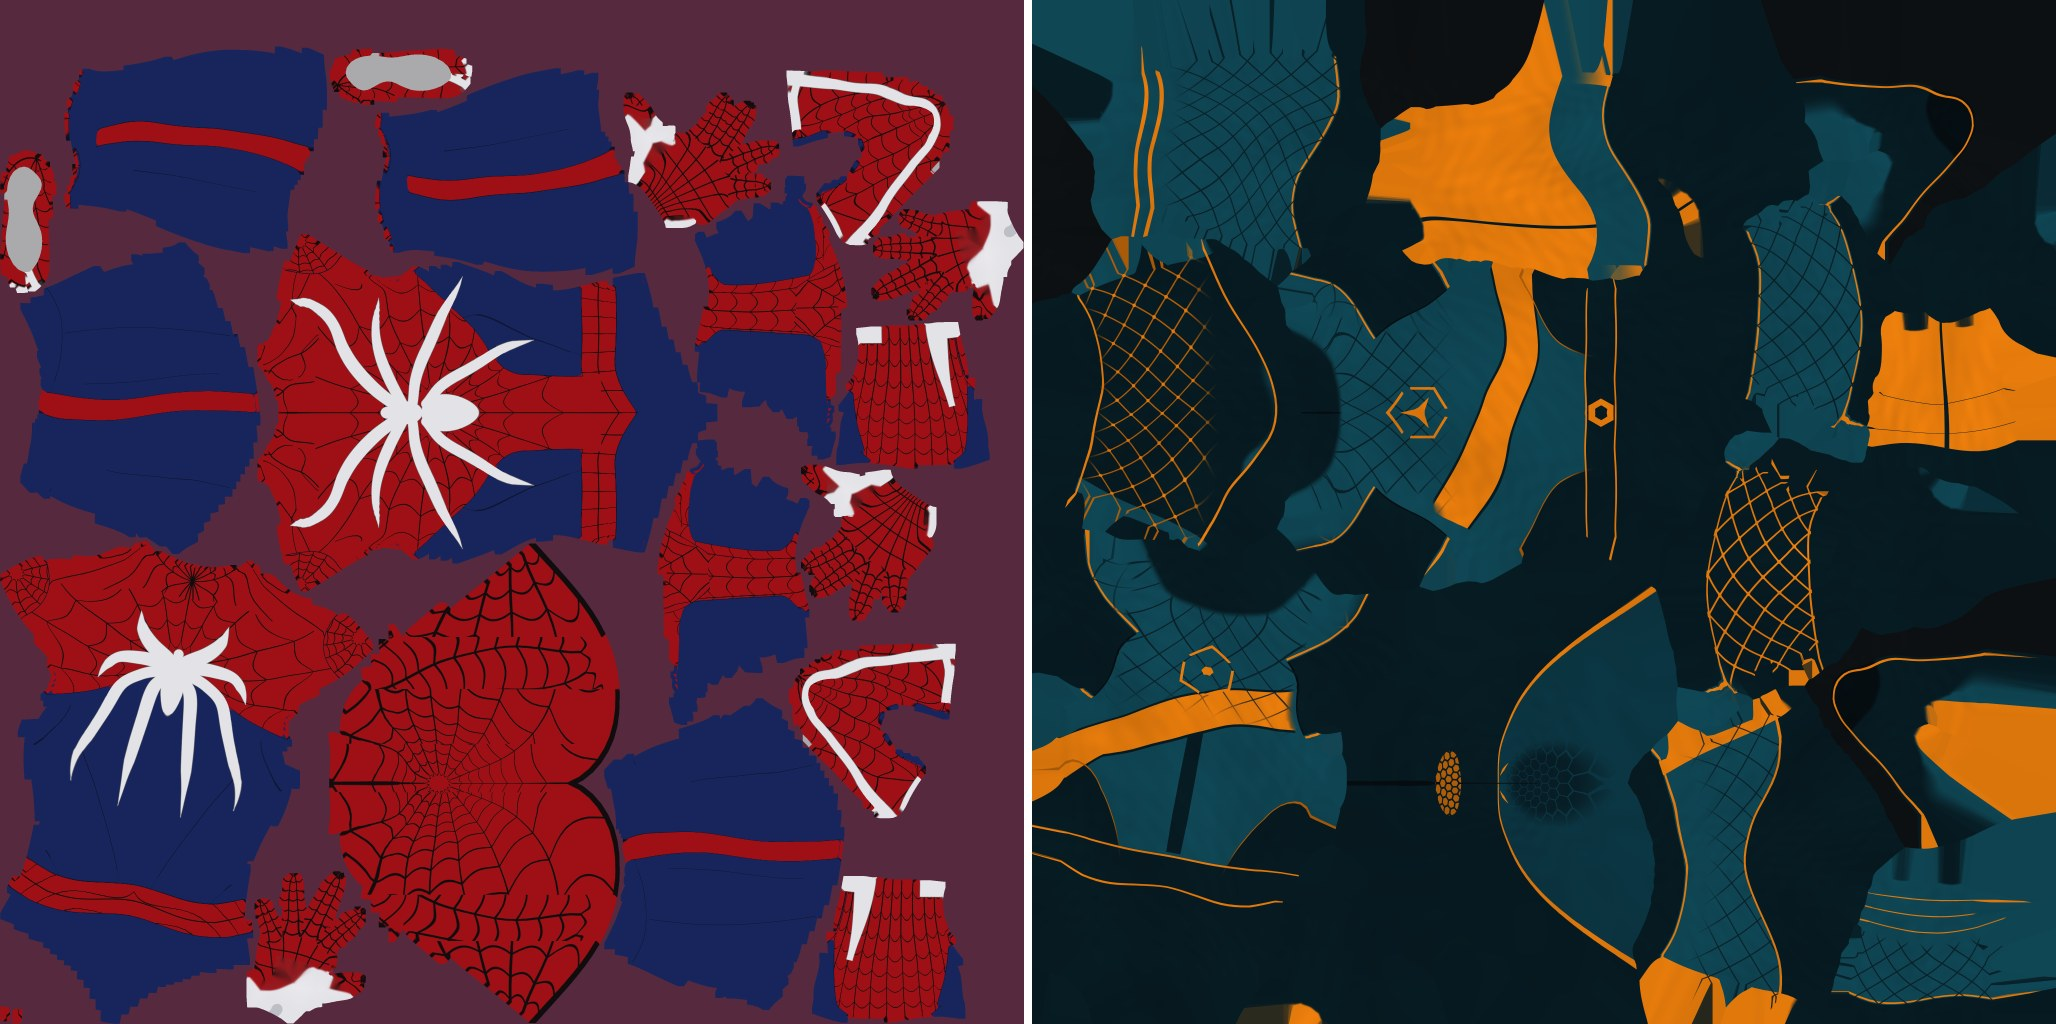
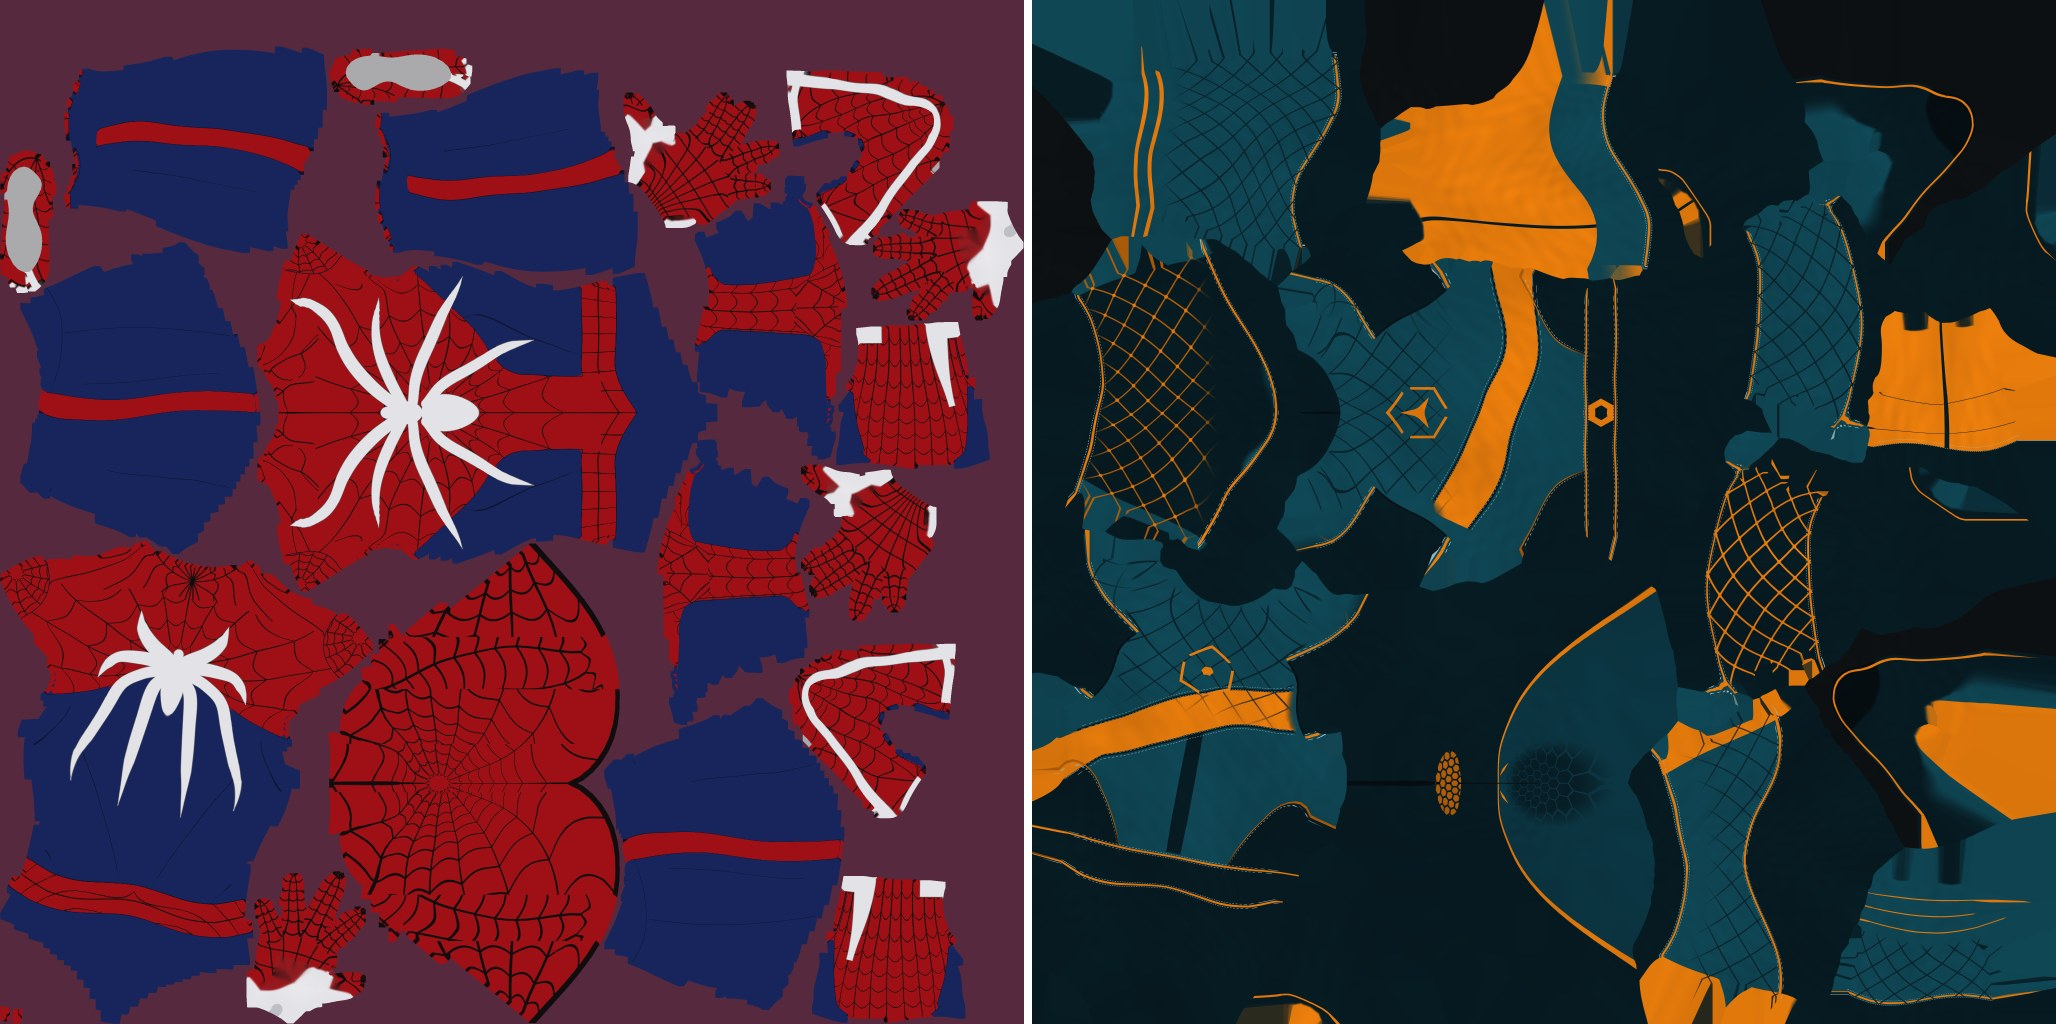
P2 characters r08 WIP: hero captures in progress, palette-aware hero video checks, line quality + lens check (flat mode), crowd frame tools

diff --git a/tools/ue_char/eval/lens_check_r8.py b/tools/ue_char/eval/lens_check_r8.py
@@ -2,7 +2,10 @@
 """Round 08: eye checks on the hero key stills (Char_HeroKey: the hero writes custom-depth stencil, the post-process key paints every non-hero pixel one flat colour,
 bloom / vignette off; needs r.CustomDepth 3).  The hero keeps its real materials, so the eye classes are read from colour inside an eye ROI:
 
-  python3 tools/ue_char/eval/lens_check_r8.py hero_key_face_4k.png --out DIR --eye NAME x0 y0 x1 y1 [--eye NAME2 ...]
+  python3 tools/ue_char/eval/lens_check_r8.py hero_key_face_4k.png --out DIR [--flat] --eye NAME x0 y0 x1 y1 [--eye NAME2 ...]
+
+--flat: the still was rendered with -WHFlatClasses (tools/ue_char/capture_r5.sh gHK): every slot of the hero is an unlit class colour (lens magenta, bezel yellow, suit blue), so the classes are exact
+(nearest channel pattern) and the bezel / hood question below is answered without colour heuristics.  Without --flat the classes are read from the real colours (amber lens, neutral bezel).
 
 Per eye ROI (native pixels; must contain the whole eye, bezel included, and nothing else amber):
   exterior key      pixels equal to the key colour (the modal colour of the image corners) that are connected to the image border
@@ -42,11 +45,36 @@ R_, G_, B_ = rgb[..., 0], rgb[..., 1], rgb[..., 2]
 AMB = (R_ > 170) & (G_ > 110) & (B_ < 0.6 * G_) & ~KEY
 NEUT = ((rgb.max(-1) - rgb.min(-1)) < 28) & (rgb.max(-1) < 200) & ~KEY
 HOOD = ((B_ > R_ + 10) | (G_ > R_ + 10)) & ~AMB & ~KEY & (rgb.max(-1) < 160)
-res = dict(image=os.path.basename(img), size=[W, H], key_rgb=[int(v) for v in keyc], exterior_key_px=int(EXT.sum()), eyes={})
+FLAT = '--flat' in a
+if FLAT:
+    mxc = rgb.max(-1).astype(np.float32) + 1e-6
+    nrm = rgb / mxc[..., None]
+    dark = mxc < 40
+    F_LENS = (nrm[..., 0] > 0.8) & (nrm[..., 2] > 0.7) & (nrm[..., 1] < 0.5) & ~dark & ~KEY
+    F_BEZ = (nrm[..., 0] > 0.8) & (nrm[..., 1] > 0.8) & (nrm[..., 2] < 0.5) & ~dark & ~KEY
+    F_SUIT = (nrm[..., 2] > 0.85) & (nrm[..., 0] < 0.45) & (nrm[..., 1] < 0.6) & ~dark & ~KEY
+res = dict(image=os.path.basename(img), size=[W, H], key_rgb=[int(v) for v in keyc], exterior_key_px=int(EXT.sum()), mode='flat' if FLAT else 'beauty', eyes={})
 ov = np.zeros((H, W, 3), np.uint8); ov[EXT] = (0, 140, 0)
 st4 = ndi.generate_binary_structure(2, 1)
 for name, (x0, y0, x1, y1) in eyes:
     roi = np.zeros((H, W), bool); roi[y0:y1, x0:x1] = True
+    if FLAT:
+        LENS = F_LENS & roi
+        if not LENS.any():
+            res['eyes'][name] = dict(error='no lens pixels (magenta) in ROI'); continue
+        enclosed = KEY & ~EXT & roi
+        near_eye6 = ndi.binary_dilation(F_LENS | F_BEZ, iterations=6)
+        enc_eye = enclosed & near_eye6
+        outline = LENS & ~ndi.binary_erosion(LENS, structure=st4)
+        nb4 = ndi.binary_dilation(outline, structure=st4) & ~LENS
+        ys, xs = np.nonzero(outline)
+        res['eyes'][name] = dict(roi=[x0, y0, x1, y1], lens_px=int(LENS.sum()), bezel_px=int((F_BEZ & roi).sum()), lens_bbox=[int(xs.min()), int(ys.min()), int(xs.max()), int(ys.max())],
+                                 background_between_rim_and_lens_px=int(enc_eye.sum()), enclosed_key_px_in_roi=int(enclosed.sum()),
+                                 lens_touch_key_px=int((LENS & ndi.binary_dilation(EXT, iterations=2)).sum()), lens_min_dist_exterior_px=round(float(dist_ext[LENS].min()), 1),
+                                 lens_outline_px=int(outline.sum()), lens_outline_bezel_neighbours=int((nb4 & F_BEZ).sum()), lens_outline_suit_or_key_neighbours=int((nb4 & (F_SUIT | KEY)).sum()),
+                                 lens_outline_unclassified_neighbours=int((nb4 & ~F_BEZ & ~F_SUIT & ~KEY & ~F_LENS).sum()))
+        ov[LENS] = (255, 0, 255); ov[F_BEZ & roi] = (255, 255, 0); ov[F_SUIT & roi] = (40, 60, 200); ov[enc_eye] = (255, 0, 0)
+        continue
     la, na = ndi.label(AMB & roi)
     if na == 0:
         res['eyes'][name] = dict(error='no lens found in ROI'); continue

diff --git a/tools/ue_char/eval/crops_r8.py b/tools/ue_char/eval/crops_r8.py
@@ -1,0 +1,30 @@
+# Homage fan game. Not an official Marvel, Sony or Insomniac game; no affiliation.
+"""Round 08: 3x crops (Lanczos) of the regions the round-07 critic named, round 07 | round 08 side by side (native 3840x2160 pixels, same shot in both rounds).
+
+  python3 tools/ue_char/eval/crops_r8.py SPEC.json ROUND07_CAPTURES ROUND08_CAPTURES OUT_DIR
+
+SPEC.json = [{"name": "hero-eye", "r7": ["hero_face_lens_4k.jpg", [x0, y0, x1, y1]], "r8": ["hero_face_lens_4k.jpg", [x0, y0, x1, y1]]}, ...]
+Writes <name>_3x.jpg (both side by side, labelled) plus r7_<name>.jpg / r8_<name>.jpg singly (critic pack pairs)."""
+import sys, os, json
+from PIL import Image, ImageDraw
+spec, r7d, r8d, out = sys.argv[1:5]
+os.makedirs(out, exist_ok=True)
+def load(d, n):
+    p = os.path.join(d, n)
+    if os.path.exists(p): return Image.open(p).convert('RGB')
+    for ext in ('.png', '.jpg'):
+        q = os.path.join(d, os.path.splitext(n)[0] + ext)
+        if os.path.exists(q): return Image.open(q).convert('RGB')
+    raise SystemExit('missing ' + n + ' in ' + d)
+for e in json.load(open(spec)):
+    n = e['name']; (i7, b7), (i8, b8) = e['r7'], e['r8']
+    a = load(r7d, i7).crop(tuple(b7)); b = load(r8d, i8).crop(tuple(b8))
+    a3 = a.resize((a.width * 3, a.height * 3), Image.LANCZOS); b3 = b.resize((b.width * 3, b.height * 3), Image.LANCZOS)
+    a3.save(os.path.join(out, 'r7_%s.jpg' % n), quality=92); b3.save(os.path.join(out, 'r8_%s.jpg' % n), quality=92)
+    h = max(a3.height, b3.height); s = Image.new('RGB', (a3.width + b3.width + 10, h), (255, 255, 255))
+    s.paste(a3, (0, 0)); s.paste(b3, (a3.width + 10, 0))
+    d = ImageDraw.Draw(s)
+    d.rectangle((2, 2, 330, 18), fill=(0, 0, 0)); d.text((6, 4), 'round 07  %s %s' % (i7, b7), fill=(255, 255, 255))
+    d.rectangle((a3.width + 12, 2, a3.width + 340, 18), fill=(0, 0, 0)); d.text((a3.width + 16, 4), 'round 08  %s %s' % (i8, b8), fill=(255, 255, 255))
+    s.save(os.path.join(out, '%s_3x.jpg' % n), quality=90)
+    print(n, s.size)

diff --git a/tools/ue_char/eval/line_quality_r8.py b/tools/ue_char/eval/line_quality_r8.py
@@ -1,7 +1,7 @@
 # Homage fan game. Not an official Marvel, Sony or Insomniac game; no affiliation.
 """Round 08: stair-step / wobble measure for a line or an edge in a native-resolution capture (critic r07: 'web lines stair-step').
 
-  python3 tools/ue_char/eval/line_quality_r8.py IMAGE x0 y0 x1 y1 --ref R G B [--bg R G B] [--tol 70] [--label NAME]
+  python3 tools/ue_char/eval/line_quality_r8.py IMAGE x0 y0 x1 y1 --ref R G B [--bg R G B] [--tol 70] [--yellow] [--label NAME]
 
 The ROI must contain ONE roughly straight or smoothly curved line (or an edge between two flat colours), running mostly horizontally or vertically.  For every column (or
 row, whichever the line crosses) the sub-pixel centre of the line is the weight-centroid of its colour similarity to --ref; the track is compared with a smooth fit (Savitzky-Golay
@@ -24,6 +24,9 @@ label = a[a.index('--label') + 1] if '--label' in a else ''
 im = cv2.imread(img)[y0:y1, x0:x1, ::-1].astype(np.float32)
 d = np.linalg.norm(im - ref, axis=-1)
 w = np.clip(1 - d / tol, 0, 1) ** 2
+if '--yellow' in a:      # amber / yellow detector: (R + G) / 2 - B is large on amber, ~0 on white stitching and negative on teal / blue
+    yl = (im[..., 0] + im[..., 1]) / 2 - im[..., 2]
+    w = np.clip((yl - 45.0) / 55.0, 0, 1) ** 2
 H, W = w.shape
 horiz = True
 cols = w
@@ -40,6 +43,8 @@ n_l, n_p = W_.shape[1], W_.shape[0]          # length along the line, extent acr
 idx = np.arange(n_p)[:, None]
 den = W_.sum(0)
 ok = den > 0.6
+if ok.sum() > 20:
+    med = float(np.median(den[ok])); ok = ok & (den > 0.8 * med) & (den < 1.25 * med)      # only columns where the whole line is inside the ROI (not cut by its border, not merged with another feature)
 track = (W_ * idx).sum(0) / np.maximum(den, 1e-9)
 pos = np.arange(n_l)[ok].astype(np.float64); tr = track[ok].astype(np.float64)
 if len(pos) < 60:

diff --git a/tools/ue_char/eval/video_checks.py b/tools/ue_char/eval/video_checks.py
@@ -25,7 +25,9 @@ def frames(path, t0=0, t1=1e9):
 def suit_mask(f):
     hsv = cv2.cvtColor(f, cv2.COLOR_BGR2HSV); h, s, v = cv2.split(hsv)
     red = ((h < 8) | (h > 172)) & (s > 140) & (v > 60); blue = (h > 105) & (h < 130) & (s > 150) & (v > 40)
-    m = (red | blue).astype(np.uint8)
+    # round 08: the original Tessera suit (teal panels + amber accents); the old red / blue stays so earlier clips still measure
+    teal = (h > 82) & (h < 112) & (s > 120) & (v > 40); amber = (h > 8) & (h < 26) & (s > 170) & (v > 110)
+    m = (red | blue | teal | amber).astype(np.uint8)
     m = cv2.morphologyEx(m, cv2.MORPH_OPEN, np.ones((3, 3), np.uint8)); md = cv2.dilate(m, np.ones((25, 25), np.uint8))
     n, lab, st, _ = cv2.connectedComponentsWithStats(md)
     if n < 2: return None
@@ -55,8 +57,9 @@ def hero_run(path, t0, t1):
 
 
 def _red(f, smin=140, vmin=60):
+    """Hero 'primary colour' mask: red (old suit) OR teal (Tessera crown / body); name kept for the callers."""
     hsv = cv2.cvtColor(f, cv2.COLOR_BGR2HSV); h, s, v = cv2.split(hsv)
-    return ((h < 8) | (h > 172)) & (s > smin) & (v > vmin)
+    return (((h < 8) | (h > 172)) & (s > smin) & (v > vmin)) | ((h > 82) & (h < 112) & (s > max(smin - 20, 100)) & (v > max(vmin - 10, 35)))
 
 
 def head_bob(path, t0, t1):

diff --git a/tools/ue_char/eval/leap_track.py b/tools/ue_char/eval/leap_track.py
@@ -21,7 +21,8 @@ while True:
     h, s, v = hsv[..., 0], hsv[..., 1], hsv[..., 2]
     red = ((h < 8) | (h > 170)) & (s > 150) & (v > 90)
     blue = (h > 105) & (h < 130) & (s > 150) & (v > 50) & (v < 190)
-    m = (red | blue).astype(np.uint8)
+    teal = (h > 82) & (h < 112) & (s > 120) & (v > 40); amber = (h > 8) & (h < 26) & (s > 170) & (v > 110)      # round 08: Tessera
+    m = (red | blue | teal | amber).astype(np.uint8)
     m = cv2.morphologyEx(m, cv2.MORPH_OPEN, np.ones((3, 3), np.uint8))
     n, lab, st, cen = cv2.connectedComponentsWithStats(m)
     if n <= 1: continue

diff --git a/docs/night1/characters/round-08/SUIT_ORIGINALITY.md b/docs/night1/characters/round-08/SUIT_ORIGINALITY.md
@@ -13,7 +13,7 @@ Name: **Tessera** (a small tile). A masked acrobat hero suit built from a slate-
 
 | Element | Tessera (round 08) | Where it lives in code (`tools/ue_char/suit8/design.py`) |
 |---|---|---|
-| Palette | TEAL `#0f4452` (body), TEAL_D `#0b3441` (crown), DEEP `#071a21` (panels, hood, gloves, trunks), AMBER `#e0780c` (accents), BONE (unused hairline), INK / SOLE near-black. **No red, no blue, no white.** | `TEAL ... SOLE` |
+| Palette | TEAL `#0f4452` (body), TEAL_D `#0b3441` (crown), DEEP `#071a21` (panels, hood, gloves, trunks), AMBER `#e0780c` (accents) and AMBER_D `#ad5c08`, STITCH `#9cc0c6` (dashed top-stitching), INK / SOLE near-black. **No red, no blue, no white.** | `TEAL ... SOLE` |
 | Colour blocking | Cross-asymmetric: the character's RIGHT arm forearm and RIGHT lower leg (greave) carry amber, the LEFT forearm has three amber wrist wraps and the LEFT thigh an amber net on a dark panel, the RIGHT thigh is teal. Left and right are deliberately different. | `Right arm = the amber light side`, `Left leg = amber side accents` |
 | Torso | Dark side wedges that widen toward the waist (taper, not a stripe); a tilted amber bandolier sash that is a plane slice of the torso (it climbs differently on the front and the back); a dark belt band with amber hairlines and a hexagon buckle plate; dark trunks above a diagonal hip-wrap cut that runs across both thighs at different heights. | `side panels`, `bandolier sash`, `belt band + trunks` |
 | Shoulders / joints | Dark raglan caps whose chest edge is a diagonal plane perpendicular to the arm (not a circle), plus plane-sliced sleeves at the elbows and knees with amber ring lines: one construction vocabulary for all joints. | `joint sleeves` |
@@ -31,9 +31,9 @@ Old = `art/night1/characters/hero/tex/suit_basecolor_r5.png` (rounds 05-07 textu
 | red (hue < 18 or > 340) | 44.96 % | **0 %** |
 | blue (205-265) | 43.86 % | **0 %** |
 | white (low saturation, bright) | 5.82 % | **0 %** |
-| teal (165-205) | 0 % | 32.9 % (plus 51.9 % of the atlas in the near-black ink-teal DEEP) |
-| amber (22-48) | 0 % | 12.4 % |
-| palette (k-means, 6) | blue (24,36,91) 43.8 %, red (156,16,21) 43.2 %, white (226,225,230) 5.8 % | ink-teal (7,26,33) 51.9 %, teal (15,68,81) 26.6 %, amber (224,120,12) 10.7 % |
+| teal (165-205) | 0 % | 33.9 % (plus 52.4 % of the atlas in the near-black ink-teal DEEP: hood, side wedges, trunks, gloves, shoulder caps) |
+| amber (22-48) | 0 % | 12.5 % |
+| palette (k-means, 6) | blue (24,36,91) 43.8 %, red (156,16,21) 43.2 %, white (226,225,230) 5.8 % | ink-teal (7,26,33) 51.6 %, teal (14,65,79) 32.7 %, amber (223,120,12) 10.8 % |
 
 Structure, side by side:
 
